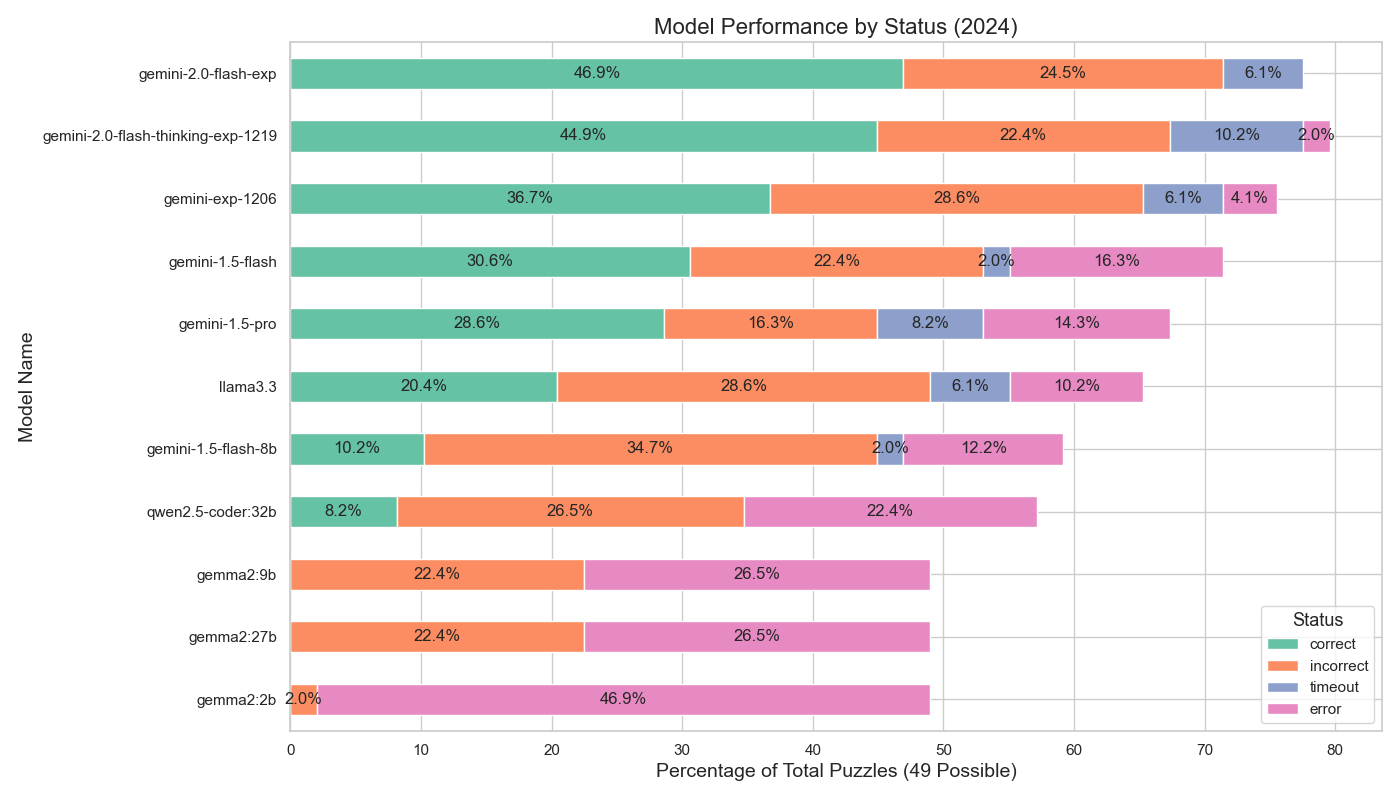
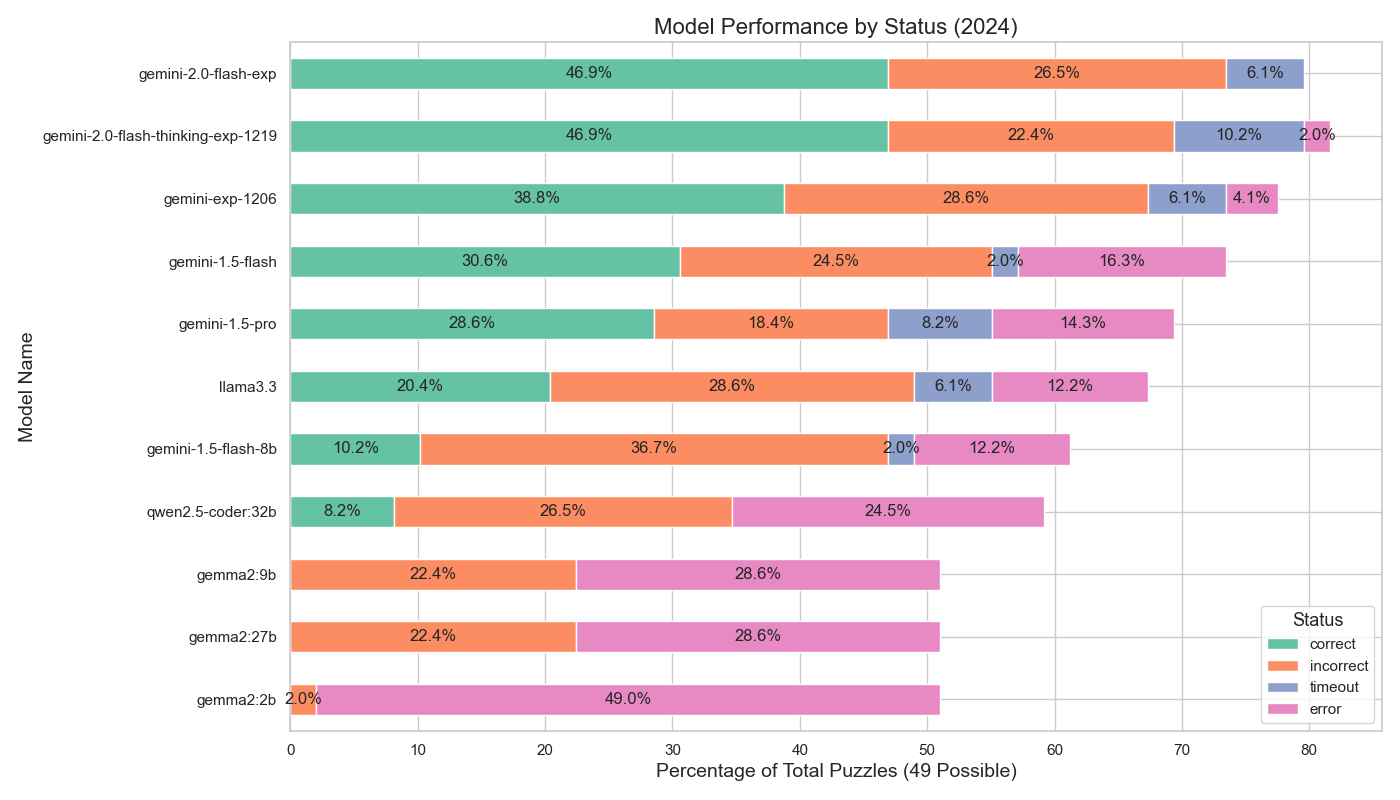
Fixed charts to include day 25

diff --git a/yearly_performance_chart.py b/yearly_performance_chart.py
@@ -17,18 +17,8 @@ def create_yearly_performance_chart(db_name="puzzle.db"):
         SELECT
             model_name,
             puzzle_year,
-            CAST(SUM(CASE WHEN answer_is_correct = 1 THEN 1 ELSE 0 END) AS REAL) * 100 / 
-            (
-                SELECT COUNT(*)
-                FROM (
-                    SELECT DISTINCT puzzle_day, puzzle_part
-                    FROM Experiments
-                    WHERE puzzle_year = e.puzzle_year
-                    AND puzzle_day <> 25
-                )
-            ) as correct_percentage
+            CAST(SUM(CASE WHEN answer_is_correct = 1 THEN 1 ELSE 0 END) AS REAL) * 100 / 49 as correct_percentage
         FROM Experiments e
-        WHERE puzzle_day <> 25
         GROUP BY model_name, puzzle_year
         ORDER BY puzzle_year, model_name
     """

diff --git a/status_chart.py b/status_chart.py
@@ -26,7 +26,7 @@ def create_stacked_status_chart_2024(db_name="puzzle.db"):
                 ELSE 'not_attempted'
             END as status
         FROM Experiments
-        WHERE puzzle_day <> 25 AND puzzle_year = 2024
+        WHERE puzzle_year = 2024
     """
 
     # Load data into pandas DataFrame
